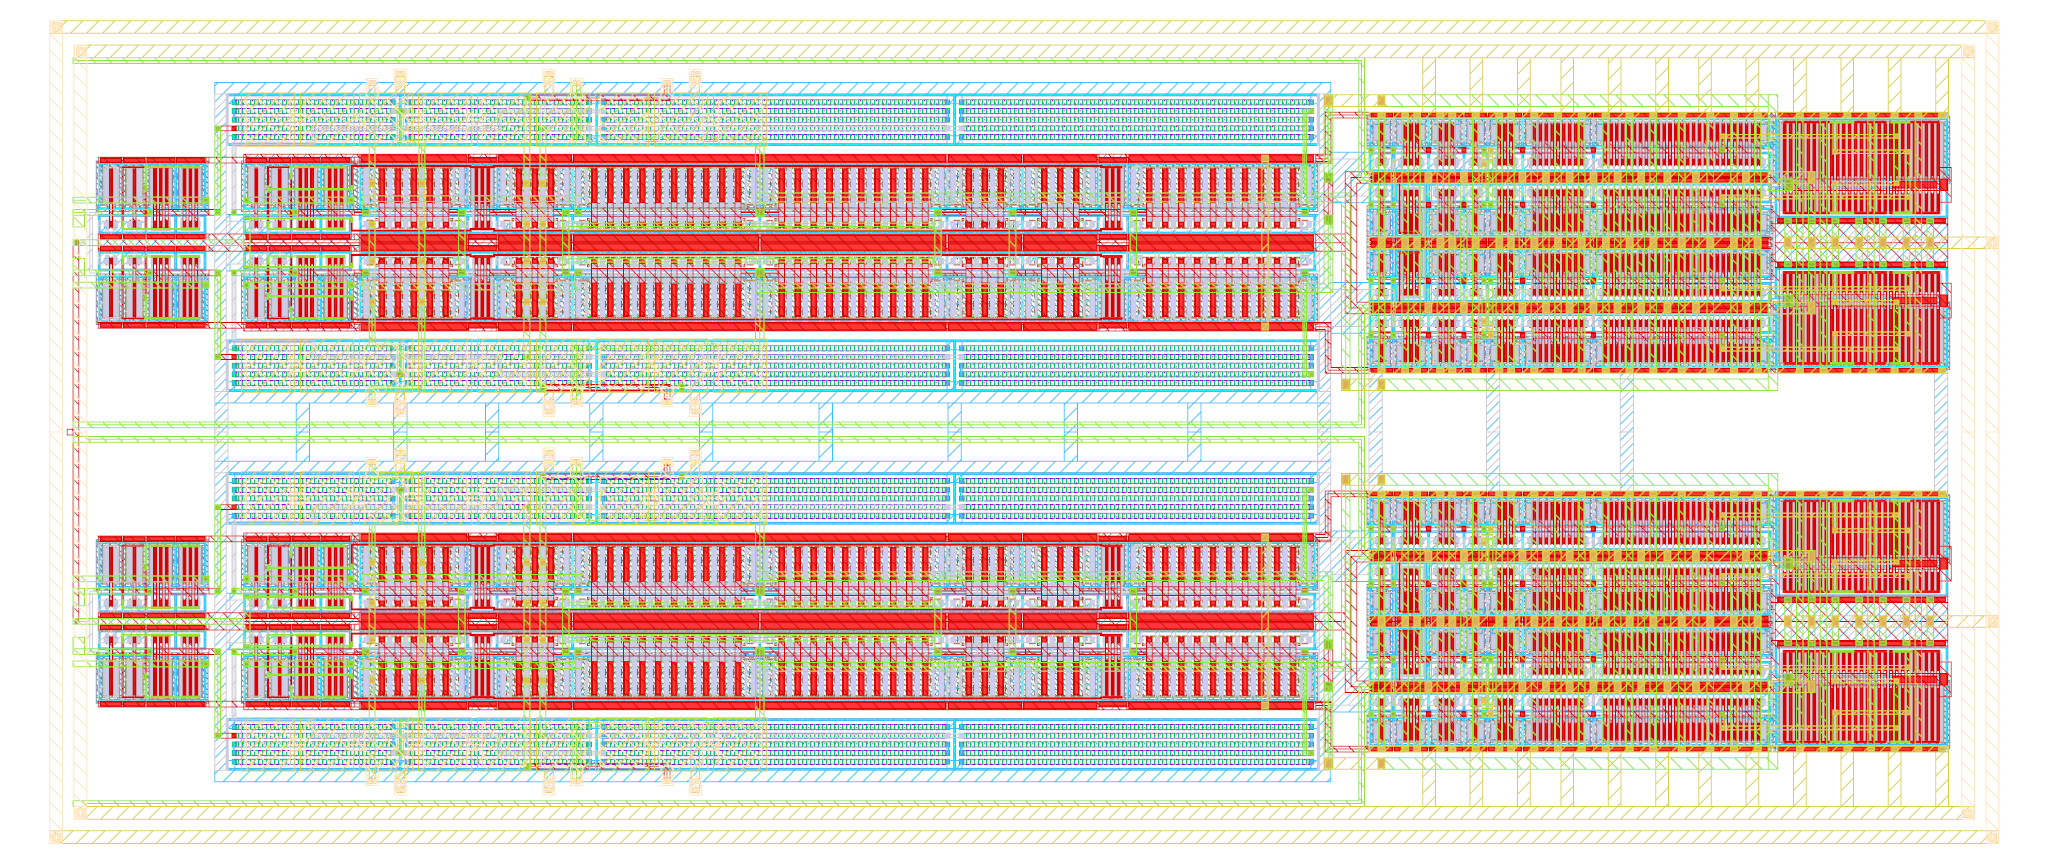
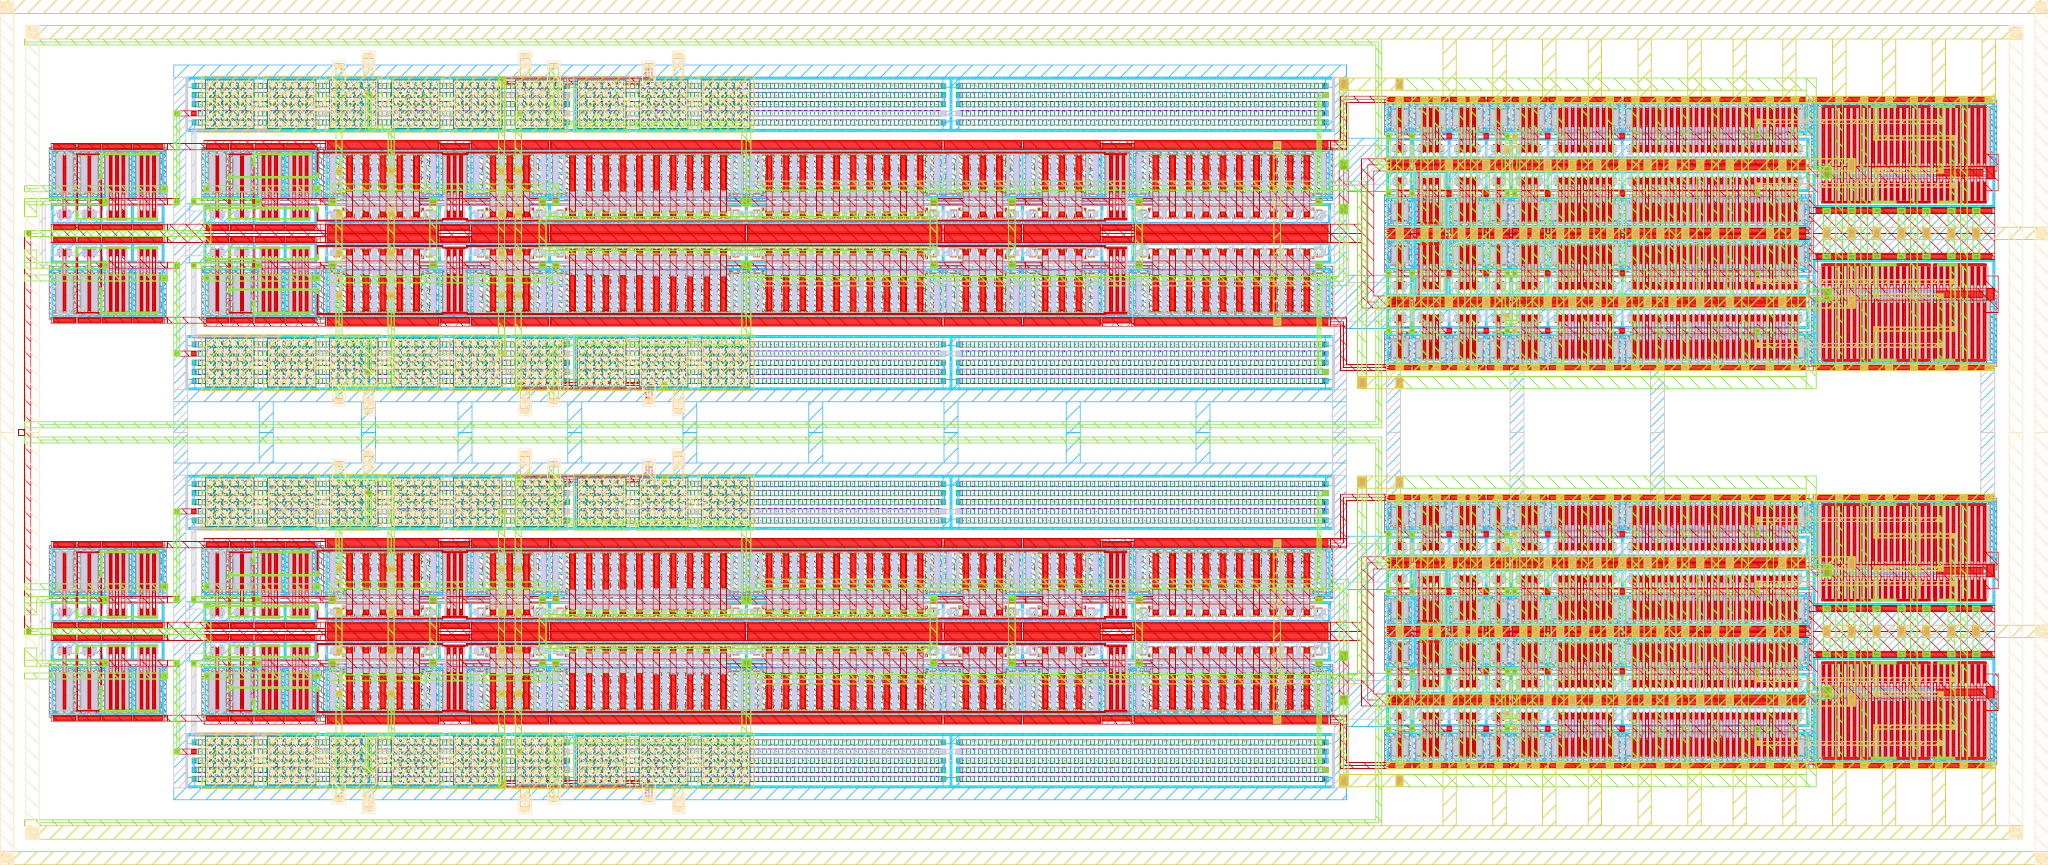
updated `lay2img.py` scripts: zero crop border

diff --git a/ihp130/macros/iqmod/scripts/lay2img.py b/ihp130/macros/iqmod/scripts/lay2img.py
@@ -22,16 +22,6 @@ def main(input_layout, output_image, width, height, oversampling, pdk_root, pdk)
     lv.load_layout(input_layout, 0)
     lv.max_hier()
 
-    top_cell = lv.active_cellview().layout().top_cell()
-    top_bbox = top_cell.dbbox()
-    aspect_ratio = top_bbox.width() / top_bbox.height()
-
-    if not height and not width:
-        width = 1024
-
-    if not height:
-        height = int(width / aspect_ratio)
-
     # Load the layer properties
     lv.load_layer_props(
         os.path.join(pdk_root, pdk, "libs.tech", "klayout", "tech", "sg13g2.lyp")
@@ -72,16 +62,39 @@ def main(input_layout, output_image, width, height, oversampling, pdk_root, pdk)
         if layer_datatype not in enabled_layers:
             lyp.visible = False
 
+    # Crop box: bounding box of the visible layers only (the outermost
+    # visible structure is the sealring). The full cell bounding box also
+    # covers invisible helper layers and would leave a border margin.
+    layout = lv.active_cellview().layout()
+    top_cell = layout.top_cell()
+    top_bbox = db.DBox()
+    for layer, datatype in enabled_layers:
+        layer_index = layout.find_layer(layer, datatype)
+        if layer_index is not None:
+            top_bbox += top_cell.dbbox(layer_index)
+    if top_bbox.empty():
+        top_bbox = top_cell.dbbox()
+    aspect_ratio = top_bbox.width() / top_bbox.height()
+
+    if not height and not width:
+        width = 1024
+
+    if not height:
+        height = max(1, round(width / aspect_ratio))
+
     # Save the images
     base_name = os.path.splitext(os.path.basename(output_image))[0]
     directory = os.path.dirname(output_image)
 
+    # target=top_bbox crops to the exact visible-layer bounding box, so the
+    # image has zero border margin
     lv.set_config("background-color", background_white)
     lv.save_image_with_options(
         os.path.join(directory, base_name + "_white.png"),
         width,
         height,
         oversampling=oversampling,
+        target=top_bbox,
     )
 
     lv.set_config("background-color", background_black)
@@ -90,6 +103,7 @@ def main(input_layout, output_image, width, height, oversampling, pdk_root, pdk)
         width,
         height,
         oversampling=oversampling,
+        target=top_bbox,
     )
 
 

diff --git a/ihp130/macros/riscv/scripts/lay2img.py b/ihp130/macros/riscv/scripts/lay2img.py
@@ -22,16 +22,6 @@ def main(input_layout, output_image, width, height, oversampling, pdk_root, pdk)
     lv.load_layout(input_layout, 0)
     lv.max_hier()
 
-    top_cell = lv.active_cellview().layout().top_cell()
-    top_bbox = top_cell.dbbox()
-    aspect_ratio = top_bbox.width() / top_bbox.height()
-
-    if not height and not width:
-        width = 1024
-
-    if not height:
-        height = int(width / aspect_ratio)
-
     # Load the layer properties
     lv.load_layer_props(
         os.path.join(pdk_root, pdk, "libs.tech", "klayout", "tech", "sg13g2.lyp")
@@ -72,16 +62,39 @@ def main(input_layout, output_image, width, height, oversampling, pdk_root, pdk)
         if layer_datatype not in enabled_layers:
             lyp.visible = False
 
+    # Crop box: bounding box of the visible layers only (the outermost
+    # visible structure is the sealring). The full cell bounding box also
+    # covers invisible helper layers and would leave a border margin.
+    layout = lv.active_cellview().layout()
+    top_cell = layout.top_cell()
+    top_bbox = db.DBox()
+    for layer, datatype in enabled_layers:
+        layer_index = layout.find_layer(layer, datatype)
+        if layer_index is not None:
+            top_bbox += top_cell.dbbox(layer_index)
+    if top_bbox.empty():
+        top_bbox = top_cell.dbbox()
+    aspect_ratio = top_bbox.width() / top_bbox.height()
+
+    if not height and not width:
+        width = 1024
+
+    if not height:
+        height = max(1, round(width / aspect_ratio))
+
     # Save the images
     base_name = os.path.splitext(os.path.basename(output_image))[0]
     directory = os.path.dirname(output_image)
 
+    # target=top_bbox crops to the exact visible-layer bounding box, so the
+    # image has zero border margin
     lv.set_config("background-color", background_white)
     lv.save_image_with_options(
         os.path.join(directory, base_name + "_white.png"),
         width,
         height,
         oversampling=oversampling,
+        target=top_bbox,
     )
 
     lv.set_config("background-color", background_black)
@@ -90,6 +103,7 @@ def main(input_layout, output_image, width, height, oversampling, pdk_root, pdk)
         width,
         height,
         oversampling=oversampling,
+        target=top_bbox,
     )
 
 

diff --git a/ihp130/scripts/lay2img.py b/ihp130/scripts/lay2img.py
@@ -22,16 +22,6 @@ def main(input_layout, output_image, width, height, oversampling, pdk_root, pdk)
     lv.load_layout(input_layout, 0)
     lv.max_hier()
 
-    top_cell = lv.active_cellview().layout().top_cell()
-    top_bbox = top_cell.dbbox()
-    aspect_ratio = top_bbox.width() / top_bbox.height()
-
-    if not height and not width:
-        width = 1024
-
-    if not height:
-        height = int(width / aspect_ratio)
-
     # Load the layer properties
     lv.load_layer_props(
         os.path.join(pdk_root, pdk, "libs.tech", "klayout", "tech", "sg13g2.lyp")
@@ -72,16 +62,39 @@ def main(input_layout, output_image, width, height, oversampling, pdk_root, pdk)
         if layer_datatype not in enabled_layers:
             lyp.visible = False
 
+    # Crop box: bounding box of the visible layers only (the outermost
+    # visible structure is the sealring). The full cell bounding box also
+    # covers invisible helper layers and would leave a border margin.
+    layout = lv.active_cellview().layout()
+    top_cell = layout.top_cell()
+    top_bbox = db.DBox()
+    for layer, datatype in enabled_layers:
+        layer_index = layout.find_layer(layer, datatype)
+        if layer_index is not None:
+            top_bbox += top_cell.dbbox(layer_index)
+    if top_bbox.empty():
+        top_bbox = top_cell.dbbox()
+    aspect_ratio = top_bbox.width() / top_bbox.height()
+
+    if not height and not width:
+        width = 1024
+
+    if not height:
+        height = max(1, round(width / aspect_ratio))
+
     # Save the images
     base_name = os.path.splitext(os.path.basename(output_image))[0]
     directory = os.path.dirname(output_image)
 
+    # target=top_bbox crops to the exact visible-layer bounding box, so the
+    # image has zero border margin
     lv.set_config("background-color", background_white)
     lv.save_image_with_options(
         os.path.join(directory, base_name + "_white.png"),
         width,
         height,
         oversampling=oversampling,
+        target=top_bbox,
     )
 
     lv.set_config("background-color", background_black)
@@ -90,6 +103,7 @@ def main(input_layout, output_image, width, height, oversampling, pdk_root, pdk)
         width,
         height,
         oversampling=oversampling,
+        target=top_bbox,
     )
 
 

diff --git a/sky130/macros/iqmod/scripts/lay2img.py b/sky130/macros/iqmod/scripts/lay2img.py
@@ -22,16 +22,6 @@ def main(input_layout, output_image, width, height, oversampling, pdk_root, pdk)
     lv.load_layout(input_layout, 0)
     lv.max_hier()
 
-    top_cell = lv.active_cellview().layout().top_cell()
-    top_bbox = top_cell.dbbox()
-    aspect_ratio = top_bbox.width() / top_bbox.height()
-
-    if not height and not width:
-        width = 1024
-
-    if not height:
-        height = int(width / aspect_ratio)
-
     # Load the layer properties
     lv.load_layer_props(
         os.path.join(pdk_root, pdk, "libs.tech", "klayout", "tech", "sg13g2.lyp")
@@ -72,16 +62,39 @@ def main(input_layout, output_image, width, height, oversampling, pdk_root, pdk)
         if layer_datatype not in enabled_layers:
             lyp.visible = False
 
+    # Crop box: bounding box of the visible layers only (the outermost
+    # visible structure is the sealring). The full cell bounding box also
+    # covers invisible helper layers and would leave a border margin.
+    layout = lv.active_cellview().layout()
+    top_cell = layout.top_cell()
+    top_bbox = db.DBox()
+    for layer, datatype in enabled_layers:
+        layer_index = layout.find_layer(layer, datatype)
+        if layer_index is not None:
+            top_bbox += top_cell.dbbox(layer_index)
+    if top_bbox.empty():
+        top_bbox = top_cell.dbbox()
+    aspect_ratio = top_bbox.width() / top_bbox.height()
+
+    if not height and not width:
+        width = 1024
+
+    if not height:
+        height = max(1, round(width / aspect_ratio))
+
     # Save the images
     base_name = os.path.splitext(os.path.basename(output_image))[0]
     directory = os.path.dirname(output_image)
 
+    # target=top_bbox crops to the exact visible-layer bounding box, so the
+    # image has zero border margin
     lv.set_config("background-color", background_white)
     lv.save_image_with_options(
         os.path.join(directory, base_name + "_white.png"),
         width,
         height,
         oversampling=oversampling,
+        target=top_bbox,
     )
 
     lv.set_config("background-color", background_black)
@@ -90,6 +103,7 @@ def main(input_layout, output_image, width, height, oversampling, pdk_root, pdk)
         width,
         height,
         oversampling=oversampling,
+        target=top_bbox,
     )
 
 
